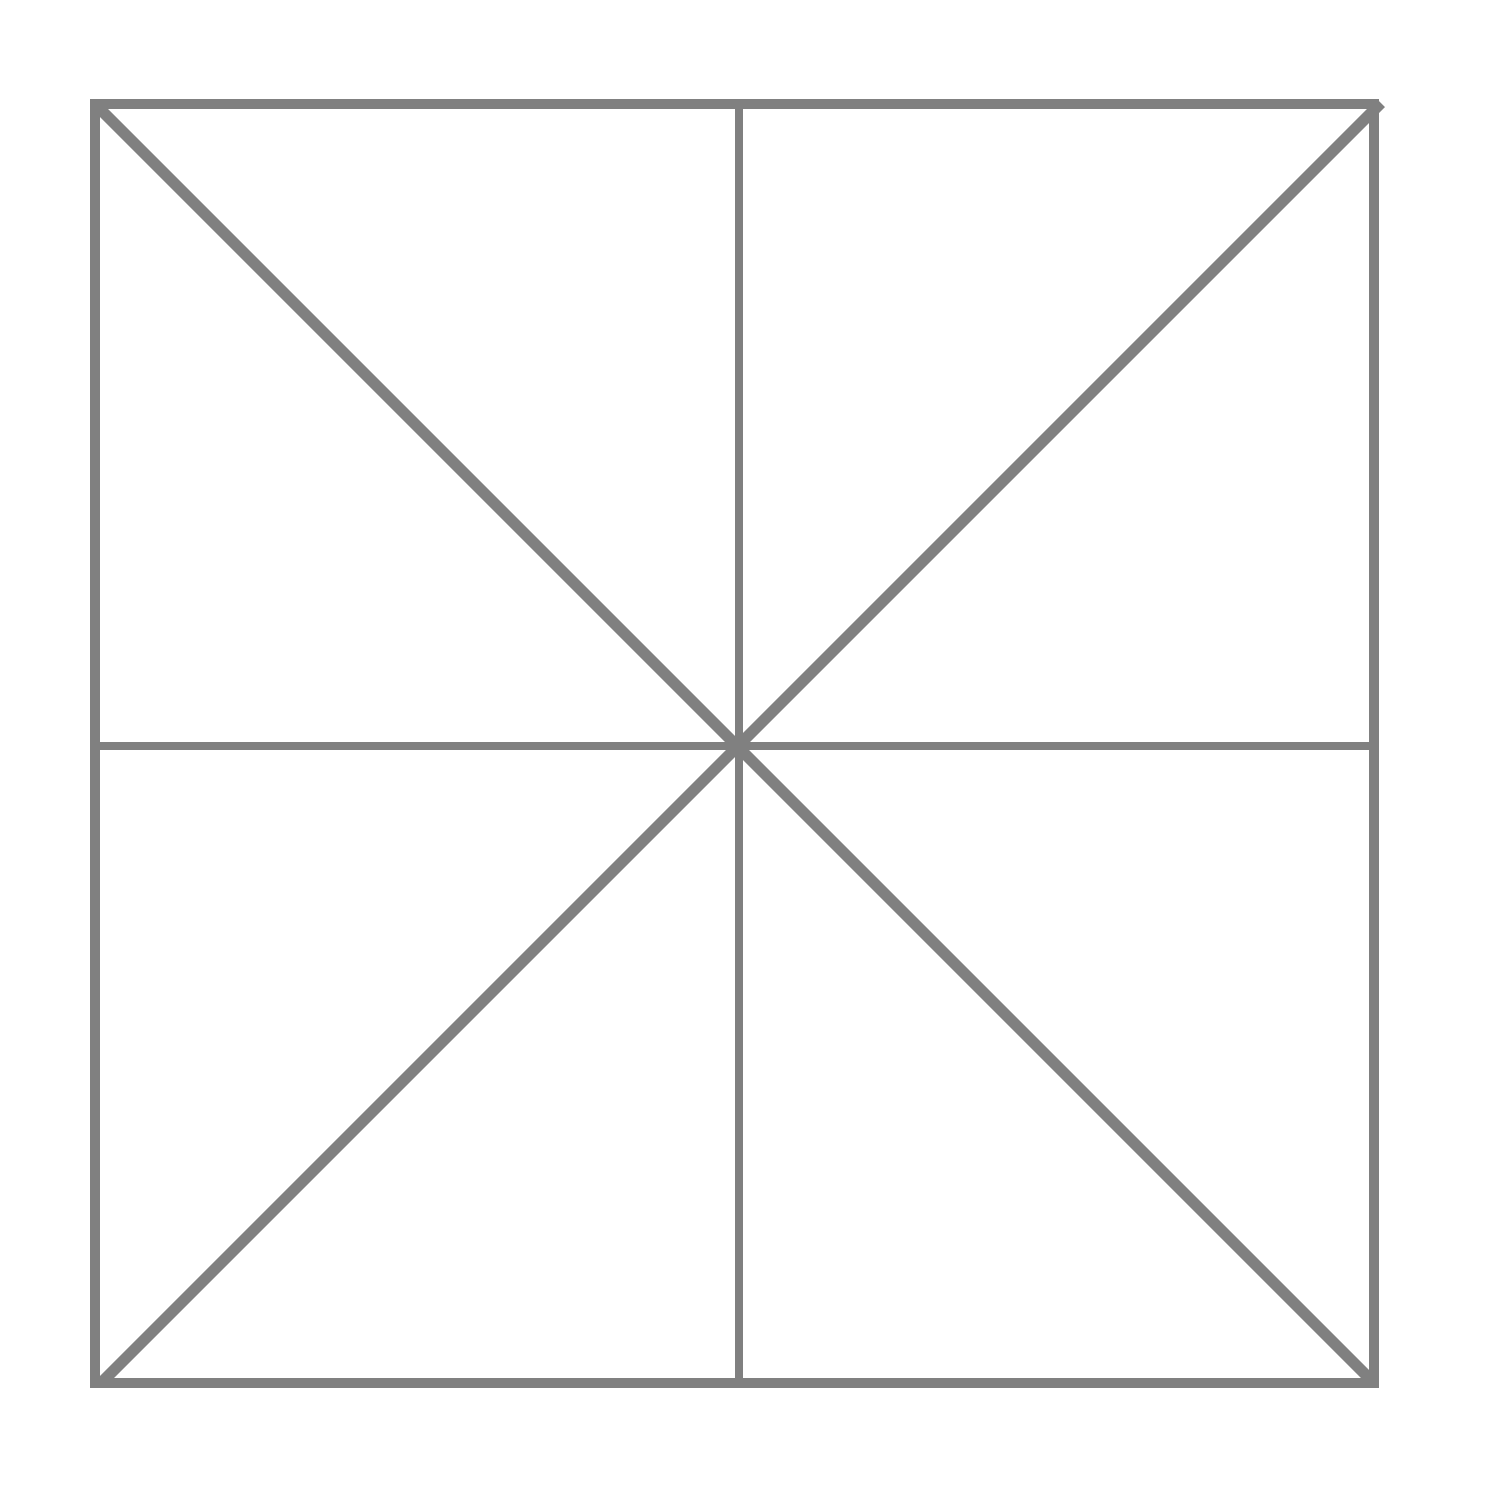
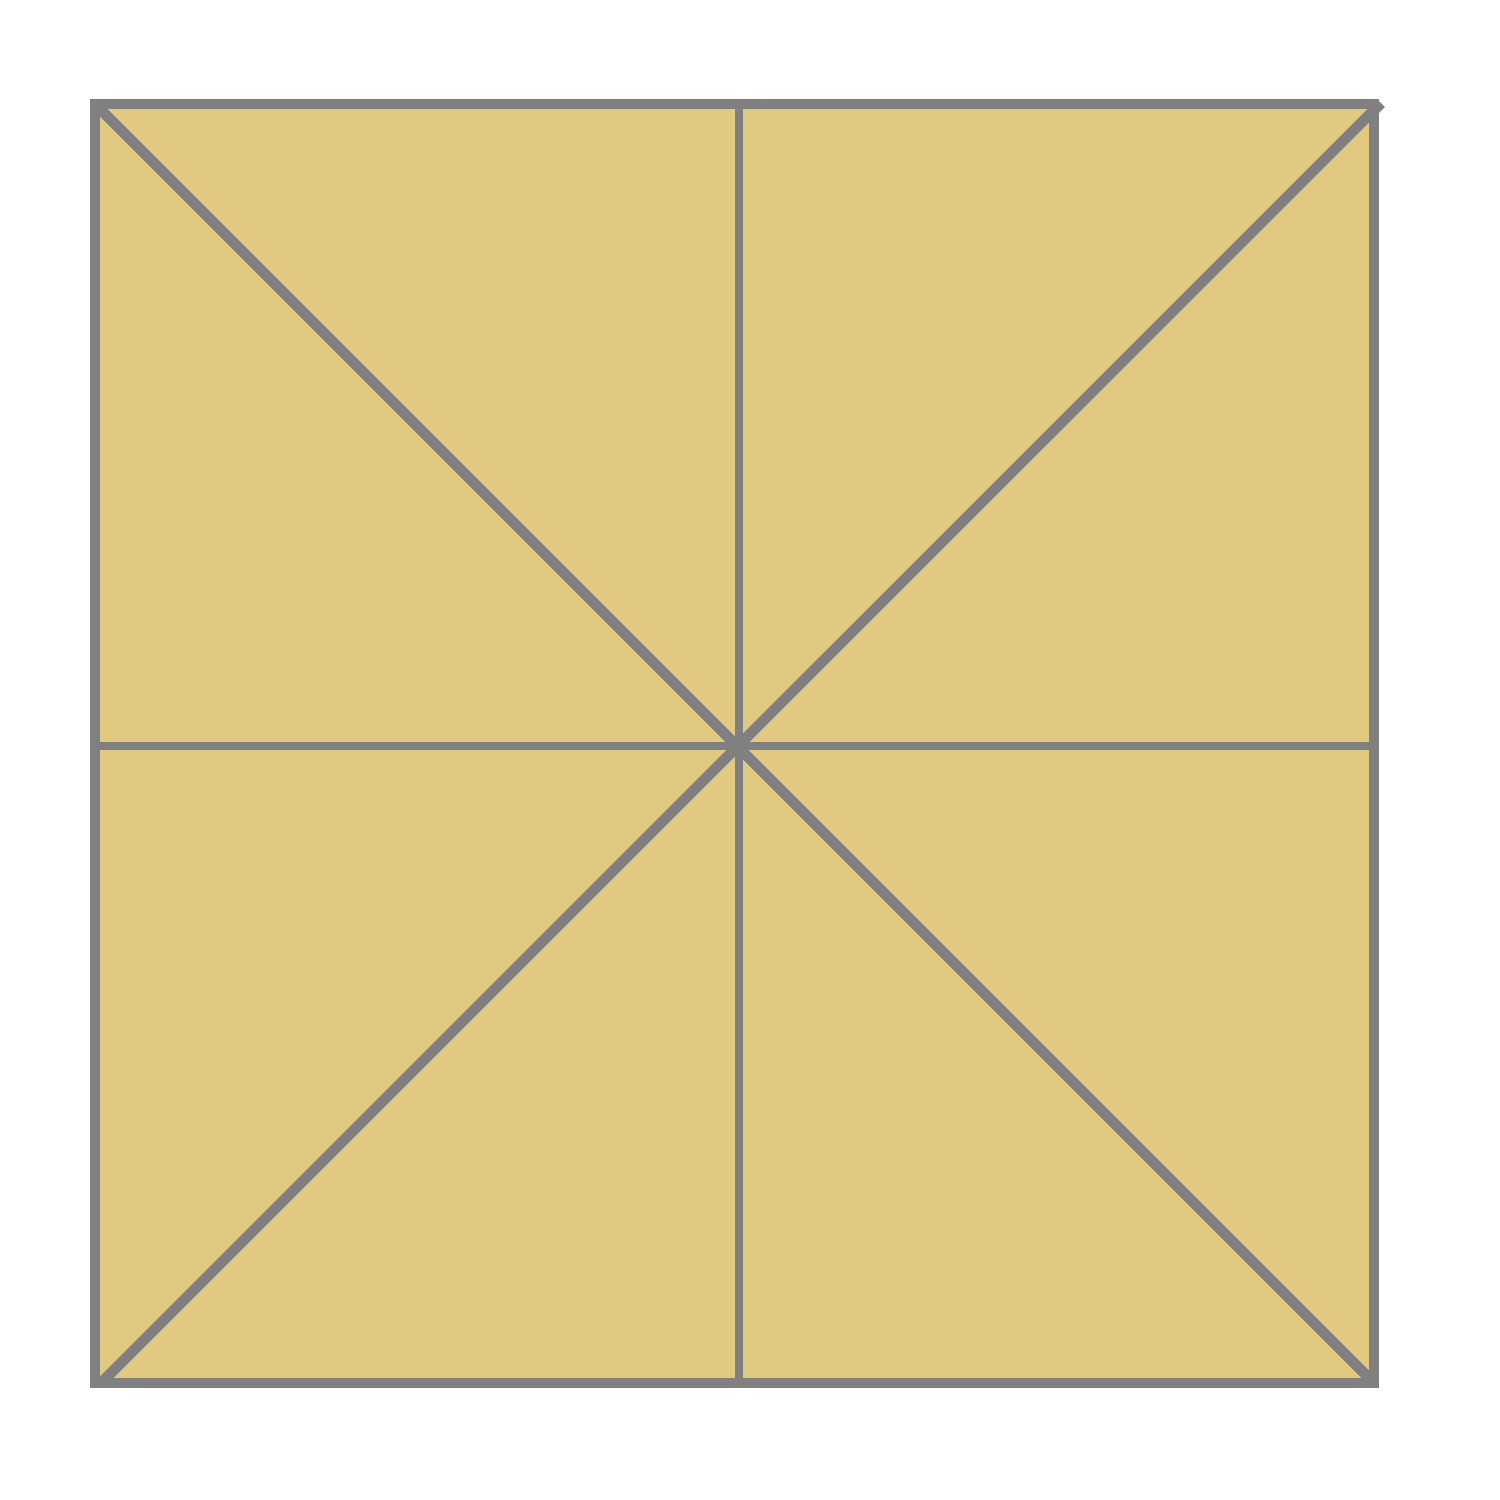
update

diff --git a/web/nineholes/src/App.tsx b/web/nineholes/src/App.tsx
@@ -3,36 +3,36 @@ import './App.css';
 import { useState, useEffect } from 'react'
 import { NineholesAI } from './ai'
 
-interface CharacterProps {
+interface CharacterProps {  // 棋子的props类型
   type: Player | null,
   is_selected: boolean,
   onClick(): void
 }
 
-enum GameStatus { start, end, waiting }
-export enum Player { black, white }
-export interface Character {
+enum GameStatus { start, end, waiting }  // 游戏的阶段：开始，结束，等待加入
+export enum Player { black, white }  // 棋子的种类：黑子，白子
+export interface Character {  // 棋盘列表中每个棋子的类型
   type: Player | null,
   is_selected: boolean
 }
-export interface GameState {
-  character_list: Character[][],
-  player: Player | null,
-  status: GameStatus,
-  winner: Player | null
+export interface GameState {  // 游戏的所有状态
+  character_list: Character[][],  // 棋盘列表
+  player: Player | null,  // 当前回合的棋子
+  status: GameStatus, 
+  winner: Player | null  // 赢家的棋子
 }
 
-function CharacterComponent(props: CharacterProps) {
+function CharacterComponent(props: CharacterProps) {  // 棋子组件
   const { type, is_selected, onClick } = props
   return type === Player.black
-    ? <div className={`character_black ${is_selected ? "selected" : ""}`} onClick={onClick} />
+    ? <img src={require('./img/black.png')} className={`character_black ${is_selected ? "selected" : ""}`} onClick={onClick} />
     : type === Player.white
-      ? <div className={`character_white ${is_selected ? "selected" : ""}`} onClick={onClick} />
+      ? <img src={require('./img/white.png')} className={`character_white ${is_selected ? "selected" : ""}`} onClick={onClick} />
       : <div className="character_blank" onClick={onClick} />
 }
 
-function MainStage(props: { room_id: string }) {
-  let default_character_state: GameState = {
+function MainStage(props: { room_id: string }) {  // 主舞台，页面
+  let default_character_state: GameState = {  // 一开始的游戏状态
     character_list: [
       [Player.black, Player.black, Player.black].map(item => { return { type: item, is_selected: false } }),
       [null, null, null].map(item => { return { type: item, is_selected: false } }),
@@ -43,9 +43,9 @@ function MainStage(props: { room_id: string }) {
     winner: null,
   }
   const [game_status, change_game_status] = useState<GameState>(default_character_state)
-  const [my_role, change_my_role] = useState<Player | null>()
-  const [my_websocket, set_websocket] = useState<WebSocket>()
-  useEffect(() => {
+  const [my_role, change_my_role] = useState<Player | null>()  // 我被分配到的棋子类型
+  const [my_websocket, set_websocket] = useState<WebSocket>()  // websocket连接类
+  useEffect(() => {  // 类似componentdidmount
     let _game_status: GameState = JSON.parse(JSON.stringify(game_status))
     if (props.room_id === "ai") {
       change_my_role(Player.black)
@@ -76,7 +76,7 @@ function MainStage(props: { room_id: string }) {
     }
   }, [])
 
-  useEffect(() => {
+  useEffect(() => {  // 判断赢家有没有出现，出现则结束游戏
     if (game_status.winner == null) return
     my_websocket?.close()
     let _game_status: GameState = JSON.parse(JSON.stringify(game_status))
@@ -84,7 +84,7 @@ function MainStage(props: { room_id: string }) {
     change_game_status(_game_status)
   }, [game_status.winner])
 
-  const whoWin = (_game_status: GameState) => {
+  const whoWin = (_game_status: GameState) => {  // 判断赢家
     let black_columns: number[] = []
     let black_rows: number[] = []
     let white_columns: number[] = []
@@ -101,11 +101,11 @@ function MainStage(props: { room_id: string }) {
       })
     })
     // console.log(black_columns, black_rows, white_columns, white_rows)
-    if (black_columns[0] === black_columns[1] && black_columns[1] === black_columns[2]) {
+    if (black_columns[0] === black_columns[1] && black_columns[1] === black_columns[2]) {  // 列坐标相同
       if (black_columns[0] !== 0) return Player.black
-    } else if ((black_rows[0] === black_rows[1] && black_rows[1] === black_rows[2])) {
+    } else if ((black_rows[0] === black_rows[1] && black_rows[1] === black_rows[2])) {  // 行坐标相同
       return Player.black
-    } else if (black_columns.toString() === black_rows.toString() || black_columns.reverse().toString() === black_rows.toString()) {
+    } else if (black_columns.toString() === black_rows.toString() || black_columns.reverse().toString() === black_rows.toString()) {  // 斜着连成线
       return Player.black
     }
     if (white_columns[0] === white_columns[1] && white_columns[1] === white_columns[2]) {
@@ -146,10 +146,10 @@ function MainStage(props: { room_id: string }) {
       }
     }
     _game_status.winner = whoWin(_game_status)
-    if (is_change && my_websocket) {
+    if (is_change && my_websocket) {  // 有房间号开启websocket
       my_websocket.send(JSON.stringify({ room: props.room_id, data: _game_status }))
       console.log("send success")
-    } else if (is_change && props.room_id === "ai" && !_game_status.winner) {
+    } else if (is_change && props.room_id === "ai" && !_game_status.winner) {  // 与ai对战
       let result: { last: number[], current: number[] } | null = NineholesAI(_game_status)
       if (result) {
         let temp = _game_status.character_list[result.current[0]][result.current[1]]
@@ -166,14 +166,14 @@ function MainStage(props: { room_id: string }) {
     <div className="flex_column">
       <div className="flex_column">
         <div className="flex_row">
-          <div className={`flex_row center flex_1 ${game_status.player === Player.black ? "tomato" : ""}`}>
+          <div className={`flex_row center flex_1 padding_TB_3 ${game_status.player === Player.black ? "tomato" : ""}`}>
             <div className="character_black" />
             <div className="flex_row">
               <span>黑子</span>
               {my_role === Player.black ? (<span>（你）</span>) : null}
             </div>
           </div>
-          <div className={`flex_row center flex_1 ${game_status.player === Player.white ? "tomato" : ""}`}>
+          <div className={`flex_row center flex_1 padding_TB_3 ${game_status.player === Player.white ? "tomato" : ""}`}>
             <div className="character_white" />
             <div className="flex_row">
               <span>白子</span>
@@ -181,11 +181,11 @@ function MainStage(props: { room_id: string }) {
             </div>
           </div>
         </div>
-        <div className="flex_1">
-          <span>状态：{game_status.status === GameStatus.waiting ? "等待加入" : game_status.status === GameStatus.end ? "游戏结束" : "游戏中"}</span>
+        <div className="flex_1 flex_row center margin_top_3">
+          <span className="bold text_32">{game_status.status === GameStatus.waiting ? "等待加入" : game_status.status === GameStatus.end ? "游戏结束" : "游戏中"}</span>
         </div>
-        <div className="flex_1">
-          <span>获胜者：{game_status.winner === Player.black ? "黑子" : game_status.winner === Player.white ? "白子" : "无"}</span>
+        <div className="flex_1 flex_row center margin_top_3">
+          <span className="bold">获胜者：{game_status.winner === Player.black ? "黑子" : game_status.winner === Player.white ? "白子" : "暂无"}</span>
         </div>
       </div>
 

diff --git a/web/nineholes/src/ai.ts b/web/nineholes/src/ai.ts
@@ -1,7 +1,7 @@
 import { GameState, Character, Player } from './App'
 
 
-interface self_feasibility_dict {
+interface self_feasibility_dict {  // 存棋子自己的坐标和该棋子可行的坐标
   self: number[],
   feasibility: number[][]
 }
@@ -10,7 +10,7 @@ export function NineholesAI(currunt: GameState) {
   let character_list: Character[][] = currunt.character_list
   let blacks: self_feasibility_dict[] = []
   let whites: self_feasibility_dict[] = []
-  character_list.forEach((column: Character[], column_index: number) => {
+  character_list.forEach((column: Character[], column_index: number) => {  // 先获取黑子和白子自己的坐标
     column.forEach((cell: Character, row_index: number) => {
       let character: self_feasibility_dict
       if (cell.type !== null) {
@@ -24,7 +24,7 @@ export function NineholesAI(currunt: GameState) {
     })
   })
 
-  function not_in_dict(loc: number[], other_whites: self_feasibility_dict[] | null = null): boolean {
+  function not_in_dict(loc: number[], other_whites: self_feasibility_dict[] | null = null): boolean {  // 判断该坐标有没有棋子占用
     if (other_whites) {
       for (let item of other_whites) {
         if (loc.toString() === item.self.toString()) return false
@@ -40,7 +40,7 @@ export function NineholesAI(currunt: GameState) {
     return true
   }
 
-  for (let item of blacks) {
+  for (let item of blacks) {  // 获取所有黑子可行的坐标
     let new_column: number = 0
     let new_row: number = 0
 
@@ -53,7 +53,7 @@ export function NineholesAI(currunt: GameState) {
     new_row = item.self[1] - 1
     if (new_row >= 0 && not_in_dict([item.self[0], new_row])) item.feasibility.push([item.self[0], new_row])
 
-    if (Math.abs(item.self[0] - item.self[1]) !== 1) {
+    if (Math.abs(item.self[0] - item.self[1]) !== 1) {  // 如果坐标之差不等于1则可以斜着走
       new_column = item.self[0] + 1; new_row = item.self[1] + 1
       if (new_column <= 2 && new_row <= 2 && not_in_dict([new_column, new_row])) item.feasibility.push([new_column, new_row])
       new_column = item.self[0] - 1; new_row = item.self[1] - 1
@@ -65,7 +65,7 @@ export function NineholesAI(currunt: GameState) {
     }
   }
 
-  for (let item of whites) {
+  for (let item of whites) {  // 获取所有白子可行的坐标
     let new_column: number = 0
     let new_row: number = 0
 
@@ -110,7 +110,7 @@ export function NineholesAI(currunt: GameState) {
       let columns: number[] = [next_step[0], other_1[0], other_2[0]]
       let rows: number[] = [next_step[1], other_1[1], other_2[1]]
 
-      if (next_step[0] === other_1[0] && other_1[0] === other_2[0]) {
+      if (next_step[0] === other_1[0] && other_1[0] === other_2[0]) {  // 判断是否胜利
         if (next_step[0] !== 2) return { last: whites[index].self, current: next_step }
       } else if (next_step[1] === other_1[1] && other_1[1] === other_2[1]) {
         return { last: whites[index].self, current: next_step }
@@ -122,7 +122,7 @@ export function NineholesAI(currunt: GameState) {
 
   // 你先走，小杜
   let black_wins: number[][] = []
-  for (let index = 0; index < 3; index++) {
+  for (let index = 0; index < 3; index++) {  // 获取黑子下一步就能获胜的坐标
     let item = blacks[index]
     for (let next_step of item.feasibility) {
       let other_1: number[]
@@ -148,7 +148,7 @@ export function NineholesAI(currunt: GameState) {
       }
     }
   }
-  for (let black_win of black_wins) {
+  for (let black_win of black_wins) {  // 去找可以去堵住的白子
     for (let index = 0; index < 3; index++) {
       let item = whites[index]
       for (let feasibility of item.feasibility) {
@@ -160,7 +160,7 @@ export function NineholesAI(currunt: GameState) {
   }
 
   // 暂停一下
-  function lose_if_left(next_step: number[]): boolean {
+  function lose_if_left(next_step: number[]): boolean {  // 如果白子走了，该占位能使黑子赢
     for (let index = 0; index < 3; index++) {
       let other_1: number[]
       let other_2: number[]
@@ -198,7 +198,7 @@ export function NineholesAI(currunt: GameState) {
     return false
   }
 
-  function get_free_character(curindex: number, current: number[]): number {
+  function get_free_character(curindex: number, current: number[]): number {  // 获取可动的白棋棋子数量
     let _whites: self_feasibility_dict[] = JSON.parse(JSON.stringify(whites))
     _whites[curindex].self = current
     for (let item of _whites) {
@@ -233,6 +233,7 @@ export function NineholesAI(currunt: GameState) {
     return free_character_num
   }
 
+  // 下一步就会被黑子包围，可动棋子为1，导致输的场面
   function next_step_lose_if_left(curindex: number, current: number[]): boolean {  // !CAUTION: blacks经过这个方法已经改变了
     let _whites: self_feasibility_dict[] = JSON.parse(JSON.stringify(whites))
     _whites[curindex].self = current
@@ -271,7 +272,7 @@ export function NineholesAI(currunt: GameState) {
   }
 
   // suit yourself
-  for (let index = 0; index < 100; index++) {
+  for (let index = 0; index < 100; index++) {  // 随你走，但是如果找不到赢的坐标则退出循环
     let random: number = parseInt((Math.random() * 3).toString())
     console.log(whites)
     if (whites[random].feasibility.length) {

diff --git a/web/nineholes/src/App.css b/web/nineholes/src/App.css
@@ -1,6 +1,7 @@
 #root{
   width: 100%;
-  height: 100%
+  height: 100vmax;
+  background: #c39b22
 }
 .center{
   align-items: center;
@@ -22,24 +23,25 @@
   width: 100vmin;
   height: 100vmin;
   z-index: 1;
+  margin-top: 20vmin;
 }
 .character_black{
-  position: relative;
-  width: 10vmin;
-  height: 10vmin;
+  position: relative !important;
+  width: 10vmin !important;
+  height: 10vmin !important;
   border-radius: 50%;
   background-color: black;
   border: 1px solid black;
-  z-index: 2;
+  z-index: 2 !important;
 }
 .character_white{
-  position: relative;
-  width: 10vmin;
-  height: 10vmin;
+  position: relative !important;
+  width: 10vmin !important;
+  height: 10vmin !important;
   border-radius: 50%;
   background-color: white;
   border: 1px solid black;
-  z-index: 2;
+  z-index: 2 !important;
 }
 .character_blank{
   position: relative;
@@ -71,8 +73,20 @@
   flex: 1
 }
 .character_margin_bottom{
-  margin-bottom: 33vmin;
+  margin-bottom: 22vmin;
 }
 .character_margin_right{
   margin-right: 32vmin;
+}
+.padding_TB_3{
+  padding: 3vmin 0 3vmin 0
+}
+.margin_top_3{
+  margin-top: 3vmin;
+}
+.bold{
+  font-weight: bold;
+}
+.text_32{
+  font-size: 32px;
 }

diff --git a/web/nineholes/public/index.html b/web/nineholes/public/index.html
@@ -24,7 +24,7 @@
       work correctly both with client-side routing and a non-root public URL.
       Learn how to configure a non-root public URL by running `npm run build`.
     -->
-    <title>React App</title>
+    <title>米字棋</title>
   </head>
   <body>
     <noscript>You need to enable JavaScript to run this app.</noscript>
